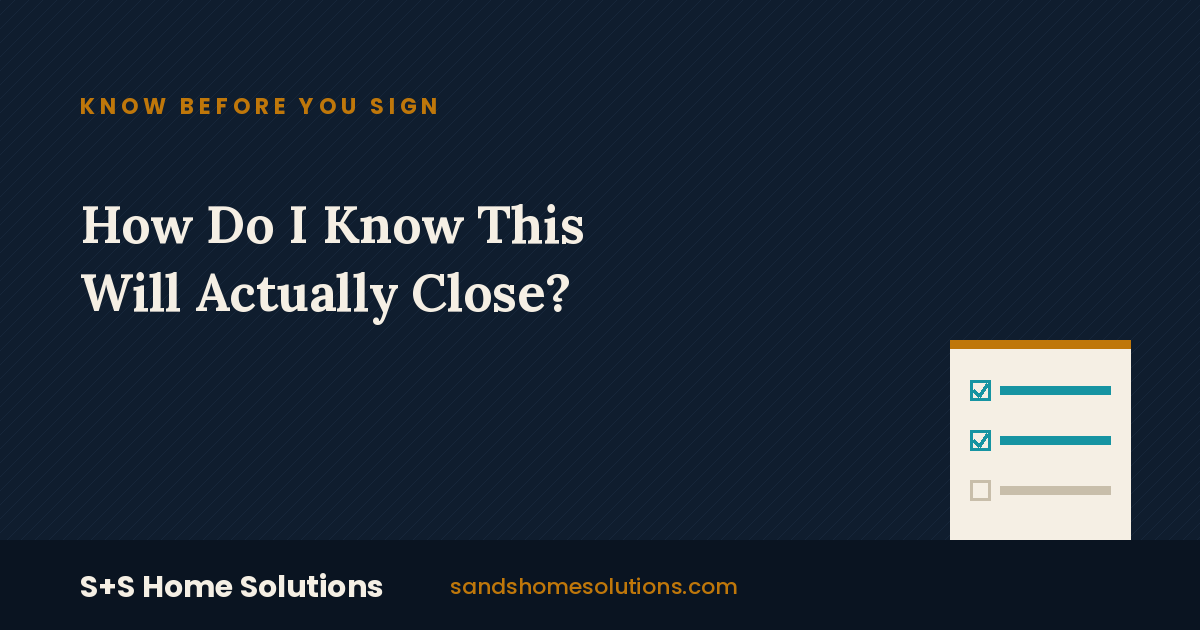
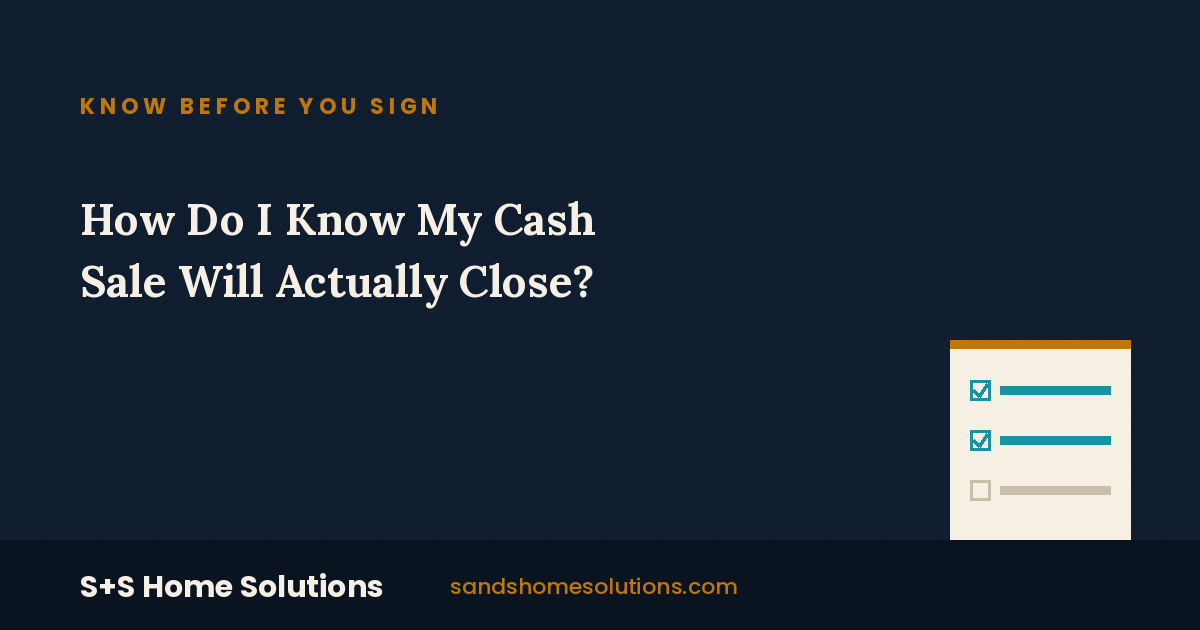
Update headline: How Do I Know My Cash Sale Will Actually Close?

Changed region(s): [[0.0617, 0.4222, 0.4933, 0.5127], [0.0617, 0.3016, 0.4933, 0.3921]]

diff --git a/blog/how-do-i-know-this-will-close.html b/blog/how-do-i-know-this-will-close.html
@@ -4,7 +4,7 @@
 <meta charset="UTF-8" />
 <meta name="viewport" content="width=device-width, initial-scale=1.0" />
 
-<title>How Do I Know This Will Actually Close? | S+S Home Solutions</title>
+<title>How Do I Know My Cash Sale Will Actually Close? | S+S Home Solutions</title>
 <meta name="description" content="Nothing in real estate is guaranteed to close. Here's an honest look at why that's true, why it's in our own interest to get your deal closed, and how we keep you informed the whole way through." />
 <meta name="robots" content="index, follow" />
 <link rel="canonical" href="https://sandshomesolutions.com/blog/how-do-i-know-this-will-close.html" />
@@ -14,7 +14,7 @@
 
 <meta property="og:type" content="article" />
 <meta property="og:url" content="https://sandshomesolutions.com/blog/how-do-i-know-this-will-close.html" />
-<meta property="og:title" content="How Do I Know This Will Actually Close?" />
+<meta property="og:title" content="How Do I Know My Cash Sale Will Actually Close?" />
 <meta property="og:description" content="Nothing is guaranteed to close. Here's why that's true, and how we keep you informed the whole way through." />
 <meta property="og:image" content="https://sandshomesolutions.com/blog/images/how-do-i-know-this-will-close.png" />
 <meta property="og:site_name" content="S+S Home Solutions" />
@@ -23,7 +23,7 @@
 {
   "@context": "https://schema.org",
   "@type": "Article",
-  "headline": "How Do I Know This Will Actually Close?",
+  "headline": "How Do I Know My Cash Sale Will Actually Close?",
   "description": "Nothing is guaranteed to close. Here's why that's true, and how we keep you informed the whole way through.",
   "image": "https://sandshomesolutions.com/blog/images/how-do-i-know-this-will-close.png",
   "author": { "@type": "Organization", "name": "S+S Home Solutions", "url": "https://sandshomesolutions.com/" },
@@ -118,7 +118,7 @@ src="https://www.facebook.com/tr?id=2566509070444865&ev=PageView&noscript=1"
 <header class="article-hero">
   <div class="article-hero-inner">
     <div class="breadcrumb"><a href="/blog/">← Back to blog</a> · Know Before You Sign</div>
-    <h1>How do I know this will actually close?</h1>
+    <h1>How do I know my cash sale will actually close?</h1>
     <p class="hero-deck">It's a fair question, and the honest answer starts with something you don't often hear from someone trying to buy your house: nothing is guaranteed.</p>
   </div>
 </header>

diff --git a/blog/index.html b/blog/index.html
@@ -400,7 +400,7 @@
 
     <a href="how-do-i-know-this-will-close.html" class="post-card">
       <span class="post-tag">Know Before You Sign</span>
-      <h2>How Do I Know This Will Actually Close?</h2>
+      <h2>How Do I Know My Cash Sale Will Actually Close?</h2>
       <p>Nothing is guaranteed to close. Here's an honest look at why that's true, why it's in our own interest to get your deal closed, and how we keep you informed the whole way through.</p>
       <div class="post-meta">
         <span>July 2026</span>